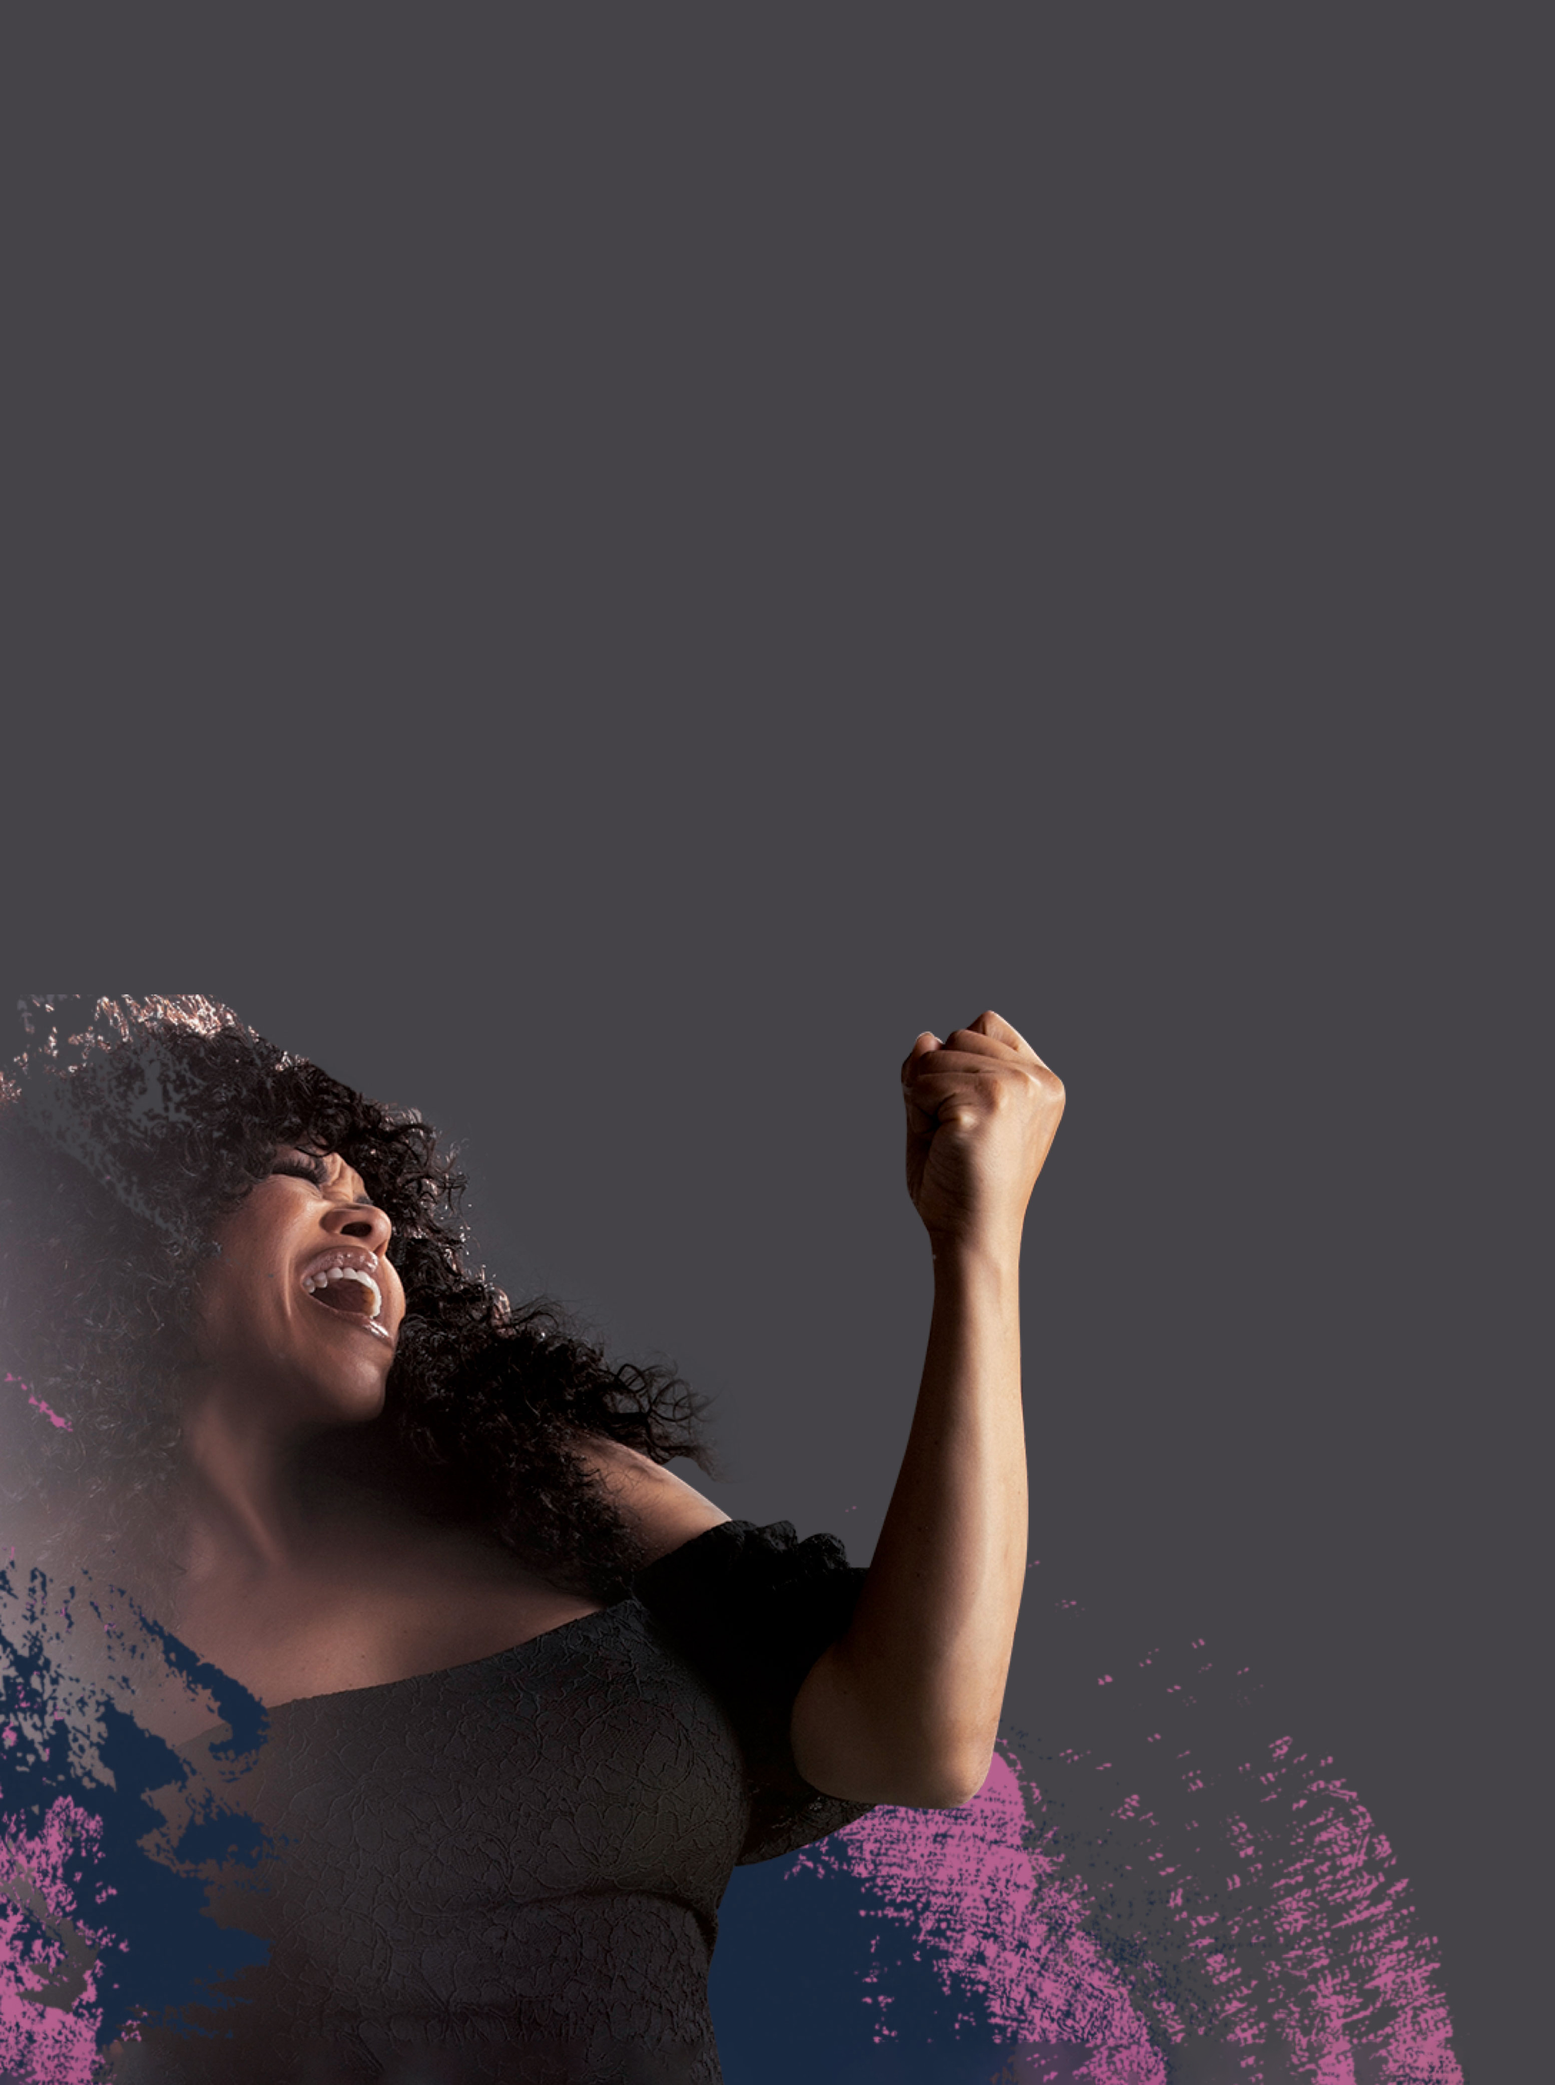
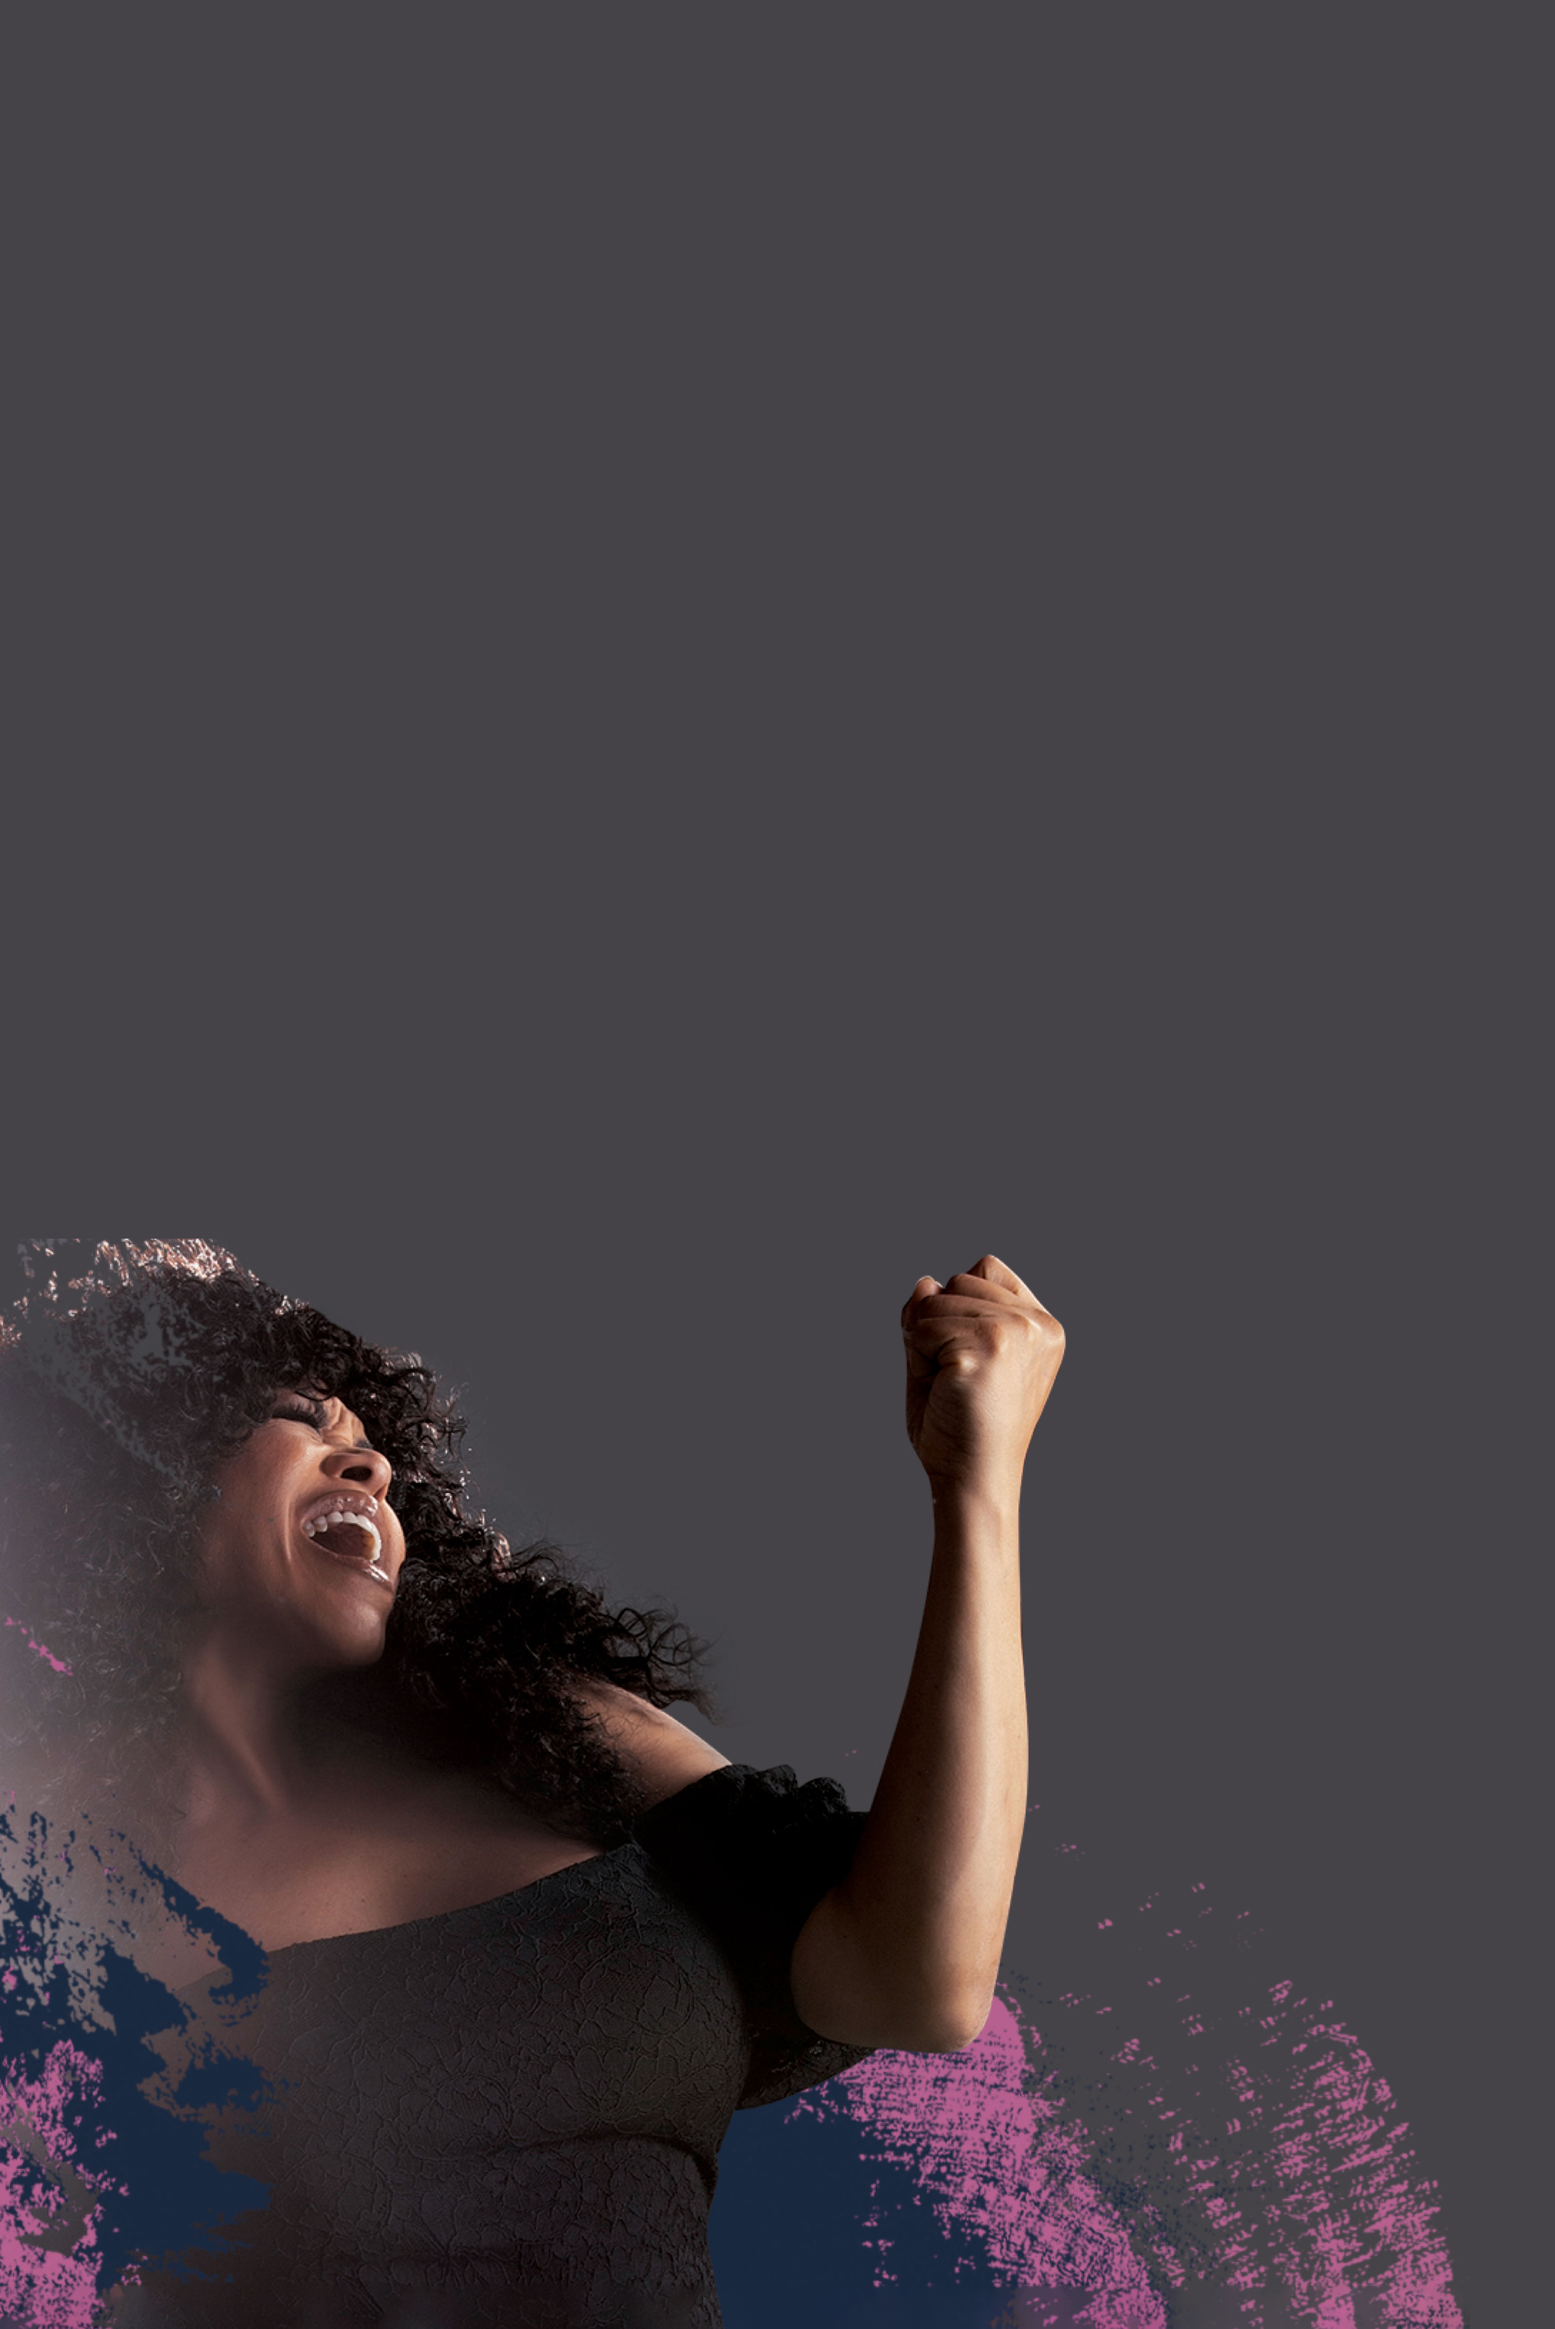
Place back form

diff --git a/src/styles/components/_hero.scss b/src/styles/components/_hero.scss
@@ -5,7 +5,7 @@
   height: 100vh;
   display: flex;
   justify-content: flex-end;
-  align-items: flex-start;
+  align-items: center;
 
   @include respond(tab-land) {
     background-image: url("../assets/images/media-queries/hero-tab-land.jpg");
@@ -15,48 +15,57 @@
 
   @include respond(tab-port) {
     background-image: url("../assets/images/media-queries/hero-tab-port.jpg");
+    align-items: flex-start;
   }
 
   @include respond(phone-land) {
     background-image: url("../assets/images/media-queries/hero-tab-land.jpg");
-    background-position: right;
+    background-position: 20%;
     display: flex;
     justify-content: flex-end;
     align-items: center;
     padding-bottom: 2rem;
+    height: auto;
   }
 
   @include respond(phone-port) {
     background-image: url("../assets/images/media-queries/hero-tab-port.jpg");
     background-position: left;
-    justify-content: flex-end;
     align-items: flex-start;
+    height: 100vh;
+  }
+
+  @include respond(iphone-5) {
+    height: auto;
   }
 
   &__text-container {
-    width: 40rem;
+    width: 45rem;
     height: max-content;
-    margin: 10% 10% 0 0;
+    margin: 0 10% 0 0;
 
     @include respond(laptop) {
-      margin: 10% 7% 0 0;
+      margin: 0 3% 0 0;
     }
 
     @include respond(tab-land) {
-      margin: 13% 7% 0 0;
+      width: 43rem;
+      margin: 0;
+      margin-right: 2rem;
     }
 
     @include respond(tab-port) {
       width: 100%;
       text-align: center;
-      margin: 8rem 0;
+      margin-top: 5rem;
     }
 
     @include respond(phone-land) {
-      width: 43%;
+      width: 100%;
       text-align: right;
       margin: 0;
       margin-right: 4rem;
+      margin-top: 4rem;
     }
 
     @include respond(phone-port) {
@@ -67,10 +76,18 @@
   }
 
   &__second-text-container {
-    margin-top: 6rem;
+    margin-top: 4rem;
 
     @include respond(phone-land) {
       margin-top: 3rem;
+      width: 60%;
+      margin-left: auto;
+    }
+
+    @include respond(phone-port) {
+      margin-top: 3rem;
+      width: 100%;
+      margin-left: auto;
     }
   }
 
@@ -90,6 +107,10 @@
     font-size: $sub-header;
     margin-top: 1rem;
 
+    @include respond(tab-land) {
+      font-size: 5rem;
+    }
+
     @include respond(phone-land) {
       font-size: 4rem;
     }
@@ -102,6 +123,11 @@
   &__headline {
     font-size: 8rem;
     margin-top: 2rem;
+
+    @include respond(tab-land) {
+      margin-top: 2rem;
+      font-size: 6rem;
+    }
 
     @include respond(phone-land) {
       margin-top: 2rem;
@@ -120,6 +146,52 @@
       font-size: 4rem;
       line-height: 1.2;
       margin-top: 1.5rem;
+    }
+  }
+
+  .form {
+    &__cta {
+      @include respond(phone-land) {
+        text-align: end;
+      }
+
+      @include respond(phone-port) {
+        text-align: center;
+      }
+    }
+    &__container {
+      width: 80%;
+      margin-top: 5rem;
+      margin-left: 0;
+
+      @include respond(tab-land) {
+        margin-top: 4rem;
+      }
+
+      @include respond(tab-port) {
+        width: 50%;
+        margin: 0 auto;
+        margin-top: 4rem;
+      }
+
+      @include respond(phone-land) {
+        margin-left: auto;
+        margin-right: 0;
+        margin-top: 4rem;
+        padding-bottom: 4rem;
+      }
+
+      @include respond(phone-port) {
+        width: 80%;
+        margin: 3rem auto;
+        text-align: center;
+      }
+
+      @include respond(iphone-5) {
+        margin: 3rem auto 0 auto;
+        text-align: center;
+        padding-bottom: 0;
+      }
     }
   }
 }

diff --git a/src/index.html b/src/index.html
@@ -8,7 +8,6 @@
       rel=""
       href="https://cdn.rawgit.com/mfd/f3d96ec7f0e8f034cc22ea73b3797b59/raw/856f1dbb8d807aabceb80b6d4f94b464df461b3e/gotham.css"
     />
-    <style></style>
   </head>
   <body>
     <section class="hero">
@@ -30,6 +29,16 @@
           <h2 class="hero__headline">
             We Stand Together
           </h2>
+        </div>
+        <div class="form__container">
+          <p class="form__cta form__cta--top">Do you want to join our movement and participate in the creation of the video "We Stand Together"?</p>
+          <p class="form__cta form__cta--bottom">Sign up now and we'll get in touch with you soon!</p>
+
+          <form class="form">
+            <input type="text" class="form__input" placeholder="Name" name="first_name" id="first_name" required>
+            <input type="email" class="form__input" placeholder="Email" name="email" id="email" required>
+            <input type="submit" value="NOTIFY ME" class="form__submit">
+          </form>
         </div>
       </div>
     </section>
@@ -56,7 +65,7 @@
           and Gas has provided us with unconditional support. We are happy to be
           working together with this wonderful company.
         </p>
-        <button class="btn">LEARN MORE</button>
+        <a class="btn">LEARN MORE</a>
       </div>
     </section>
     <section class="section section--2">
@@ -85,7 +94,7 @@
             ask you and many others to stand with me.
           </p>
           <p class="section__text section__text--right">Together we can make it through anything.</p>
-          <button class="btn">VISIT STACY’S WEBSITE</button>
+          <a class="btn" href="https://www.stacy-francis.com/">VISIT STACY’S WEBSITE</a>
         </div>
       </div>
     </section>

diff --git a/src/styles/components/_form.scss b/src/styles/components/_form.scss
@@ -1,0 +1,73 @@
+.form {
+  display: flex;
+  flex-direction: column;
+
+  &__container {
+    width: 100%;
+    margin-left: auto;
+    margin-top: 4rem;
+
+    @include respond(tab-land) {
+      margin-top: 2rem;
+    }
+
+    @include respond(tab-port) {
+      width: 100%;
+      margin: 0 auto;
+    }
+
+    @include respond(phone-land) {
+      width: 80%;
+      margin: 0 auto;
+    }
+  }
+
+  &__input {
+    margin-bottom: 1rem;
+    padding: 1rem;
+    background-color: $input-background;
+    border: none;
+
+    &::placeholder {
+      color: black;
+    }
+  }
+
+  &__submit {
+    padding: 1.3rem 1rem;
+    background-color: transparent;
+    border: 1px solid $white;
+    color: white;
+    margin-top: 1.5rem;
+    transition: all 0.3s ease-in-out;
+    border-radius: 5px;
+
+    &:hover {
+      background-color: $white;
+      color: grey;
+      cursor: pointer;
+      transform: translateY(-3px);
+    }
+  }
+
+  &__cta {
+    text-align: left;
+
+    &--bottom {
+      margin: 1rem 0 3rem 0;
+
+      @include respond(tab-land) {
+        margin: 1rem 0 2rem 0;
+      }
+    }
+
+    @include respond(tab-port) {
+      text-align: center;
+    }
+
+    @include respond(phone-land) {
+      text-align: center;
+      font-size: 1.3rem;
+    }
+  }
+}

diff --git a/src/styles/components/_section.scss b/src/styles/components/_section.scss
@@ -158,7 +158,7 @@
       text-align: right;
 
       @include respond(phone-port) {
-        text-align: justify;
+        text-align: left;
         margin: 0 0 2rem 0;
         padding: 0;
         width: 100%;
@@ -178,15 +178,17 @@
     }
 
     .btn {
+      margin-left: auto;
+
       @include respond(phone-land) {
         position: relative;
-        display: block;
+
         margin-left: auto;
       }
 
       @include respond(phone-port) {
         position: relative;
-        display: block;
+
         margin: 4rem auto 0 auto;
       }
     }

diff --git a/src/styles/components/_btn.scss b/src/styles/components/_btn.scss
@@ -1,4 +1,7 @@
 .btn {
+  display: flex;
+  align-items: center;
+  justify-content: center;
   box-sizing: border-box;
   height: 5rem;
   width: 22rem;
@@ -7,6 +10,7 @@
   background-color: transparent;
   color: white;
   transition: all 0.3s ease-in-out;
+  text-decoration: none;
 
   &:hover {
     color: grey;

diff --git a/src/styles/index.scss b/src/styles/index.scss
@@ -5,5 +5,6 @@
 @import "./abstracts/variables";
 @import "./components/alert-message";
 @import "./components/btn";
+@import "./components/form";
 @import "./components/hero";
 @import "./components/section";
